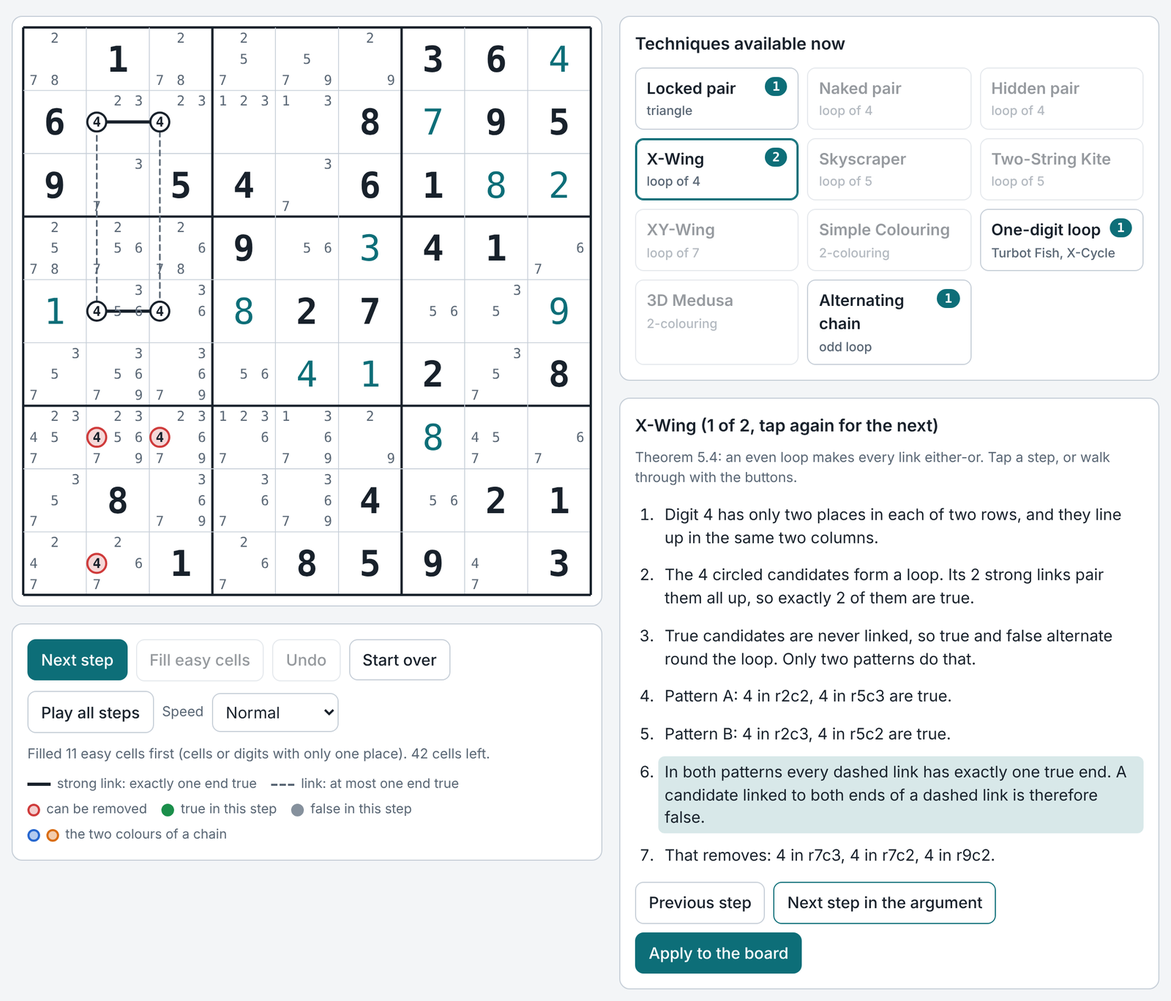
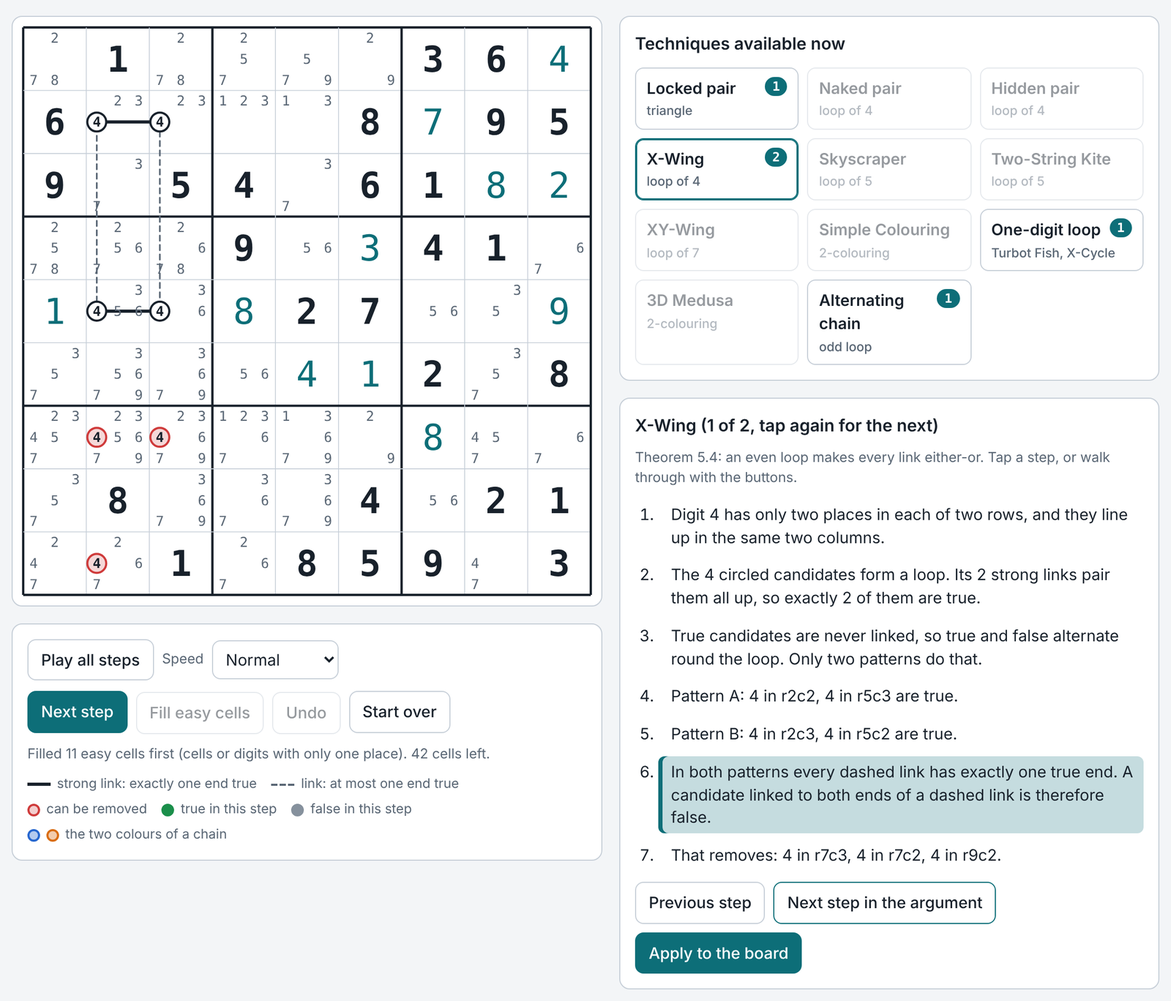
Loop Finder: no automatic scrolling, Resume after a pause, Play row on top
- The page never scrolls by itself now, during play or on Next step.
  The current step is marked with a stronger highlight instead.
- Play all steps and Speed sit above the manual buttons.
- The button reads Play all steps at first, Pause while playing and
  Resume after a pause. A new puzzle or Start over resets it.
- The explanation card keeps its height between moves during play, so
  the page below it does not jump.
- README: explain the two-colour idea in concrete terms.

Claude-Session: https://claude.ai/code/session_0161PMRBv2Fxor83Lofabj9S

Changed region(s): [[0.5625, 0.4912, 0.9688, 0.8596], [0.0, 0.614, 0.375, 0.7368]]

diff --git a/index.html b/index.html
@@ -40,7 +40,6 @@ p { margin: 0; }
   /* phone: the board stays in view while the steps scroll beneath it */
   .cols, .cols > .stack { display: contents; }
   .board { position: sticky; top: 0; z-index: 5; max-width: 460px; width: 100%; align-self: center; box-shadow: 0 6px 14px -10px var(--ink); }
-  #explain { scroll-margin-top: calc(min(100vw - 32px, 460px) + 12px); }
 }
 @media (min-width: 900px) { .cols > .stack:first-child { position: sticky; top: 16px; } }
 .row { display: flex; flex-wrap: wrap; gap: 8px; align-items: center; }
@@ -63,8 +62,8 @@ svg#grid { width: 100%; height: auto; display: block; touch-action: manipulation
 .tech .c { font-family: var(--font-mono); font-size: 12px; line-height: 18px; color: var(--panel); background: var(--accent); border-radius: 999px; padding: 0 7px; flex: none; }
 .tech[aria-pressed="true"] { border-color: var(--accent); box-shadow: inset 0 0 0 1px var(--accent); }
 ol#steps { margin: 0; padding-left: 22px; display: flex; flex-direction: column; gap: 6px; }
-ol#steps li { padding: 4px 6px; border-radius: 6px; cursor: pointer; }
-ol#steps li.on { background: color-mix(in srgb, var(--accent) 16%, transparent); }
+ol#steps li { padding: 4px 8px 4px 12px; border-radius: 6px; cursor: pointer; }
+ol#steps li.on { background: color-mix(in srgb, var(--accent) 24%, transparent); box-shadow: inset 4px 0 0 var(--accent); }
 .theorem { font-size: 13px; color: var(--muted); }
 .digits button { font-family: var(--font-mono); padding: 6px 0; width: 34px; text-align: center; }
 .digits button[aria-pressed="true"] { background: var(--accent); border-color: var(--accent); color: var(--panel); }
@@ -80,8 +79,6 @@ ol#steps li.on { background: color-mix(in srgb, var(--accent) 16%, transparent);
 .dot.b { border-color: var(--k1); background: color-mix(in srgb, var(--k1) 35%, transparent); }
 select#speed { flex: 0 0 auto; padding: 7px 8px; }
 #play[aria-pressed="true"] { border-color: var(--accent); box-shadow: inset 0 0 0 1px var(--accent); }
-ol#steps li { scroll-margin-top: 12px; }
-@media (max-width: 899px) { ol#steps li { scroll-margin-top: calc(min(100vw - 32px, 460px) + 12px); } }
 /* a candidate being removed: it pulses, is struck through, then shrinks away */
 #grid .going, #grid .landing { transform-box: fill-box; transform-origin: center; }
 #grid .going { animation: going var(--dur, 1100ms) ease-in forwards; }
@@ -125,12 +122,6 @@ ol#steps li { scroll-margin-top: 12px; }
       </section>
       <section class="card" aria-label="Moves">
         <div class="row">
-          <button id="next" type="button" class="primary">Next step</button>
-          <button id="easy" type="button">Fill easy cells</button>
-          <button id="undo" type="button">Undo</button>
-          <button id="reset" type="button">Start over</button>
-        </div>
-        <div class="row">
           <button id="play" type="button" aria-pressed="false">Play all steps</button>
           <label for="speed">Speed</label>
           <select id="speed" aria-label="Playback speed">
@@ -139,6 +130,12 @@ ol#steps li { scroll-margin-top: 12px; }
             <option value="800">Fast</option>
             <option value="1000" data-skip="1">Moves only</option>
           </select>
+        </div>
+        <div class="row">
+          <button id="next" type="button" class="primary">Next step</button>
+          <button id="easy" type="button">Fill easy cells</button>
+          <button id="undo" type="button">Undo</button>
+          <button id="reset" type="button">Start over</button>
         </div>
         <p class="msg" id="status" role="status"></p>
         <div class="legend" aria-label="Key">
@@ -586,6 +583,7 @@ ol#steps li { scroll-margin-top: 12px; }
   var st = null, original = '', solution = null, history = [], avail = {}, pick = {};
   var view = { kind: 'none' };   // 'result' {res, step}, 'probe' {id}, 'digit' {d}
   var playing = false, playTimer = null;        // automatic play
+  var paused = false;                           // play was stopped part-way, so the button offers to resume
   var removing = false, removeTimer = null;     // a move is being animated off the board
   var fresh = {};                               // cells filled by the last move, flashed once
   /* Tests set data-instant="1" on <html> to skip every wait. */
@@ -725,19 +723,22 @@ ol#steps li { scroll-margin-top: 12px; }
   function render() {
     draw(); drawTechs(); drawExplain();
     $('undo').disabled = !history.length; $('next').disabled = E.solved(st); $('easy').disabled = !E.findSingle(st);
-    var pb = $('play'); pb.disabled = E.solved(st) && !playing; pb.textContent = playing ? 'Pause' : 'Play all steps'; pb.setAttribute('aria-pressed', String(playing));
+    /* While playing, the explanation card never shrinks between moves, so the page below it does not jump. */
+    var ex = $('explain');
+    if (playing) { var h = ex.offsetHeight || 0; if (h > (ex._minH || 0)) { ex._minH = h; ex.style.minHeight = h + 'px'; } }
+    else if (ex._minH) { ex._minH = 0; ex.style.minHeight = ''; }
+    var pb = $('play'); pb.disabled = E.solved(st) && !playing; pb.textContent = playing ? 'Pause' : (paused && !E.solved(st) ? 'Resume' : 'Play all steps'); pb.setAttribute('aria-pressed', String(playing));
   }
   function say(text, bad) { var el = $('status'); el.textContent = text; el.className = 'msg' + (bad ? ' bad' : ''); }
 
   /* ---------- actions ---------- */
-  function reveal() { var el = $('explain'); if (el.scrollIntoView && window.matchMedia && window.matchMedia('(max-width: 899px)').matches) el.scrollIntoView({ block: 'start', behavior: 'smooth' }); }
-  function show(key, index, quiet) { var list = avail[key]; if (!list || !list.length) return; index = index % list.length; pick[key] = index; view = { kind: 'result', tech: key, index: index, res: list[index], step: null }; render(); if (!quiet) reveal(); }
+  function show(key, index, quiet) { var list = avail[key]; if (!list || !list.length) return; index = index % list.length; pick[key] = index; view = { kind: 'result', tech: key, index: index, res: list[index], step: null }; render(); }
   function snapshot() { history.push(E.clone(st)); if (history.length > 200) history.shift(); }
   function afterChange(text) { view = { kind: 'none' }; pick = {}; scan(); render(); say(text + (E.solved(st) ? ' The puzzle is solved.' : ' ' + left() + ' cells left.')); }
   function load(str, techKey) {
     var res = E.check(str), msg = $('loadmsg');
     if (!res.ok) { msg.textContent = 'Not loaded. ' + res.reason; msg.className = 'msg bad'; return false; }
-    st = res.state; original = E.toString(st); solution = res.solution; history = [];
+    st = res.state; original = E.toString(st); solution = res.solution; history = []; paused = false;
     msg.className = 'msg'; msg.textContent = 'Loaded. The puzzle has exactly one solution.';
     var n = E.fillSingles(st);
     afterChange(n ? 'Filled ' + n + ' easy cells first (cells or digits with only one place).' : 'No easy cells to fill.');
@@ -777,15 +778,11 @@ ol#steps li { scroll-margin-top: 12px; }
   }
 
   /* ---------- automatic play ---------- */
-  function stopPlay() { if (playTimer) { clearTimeout(playTimer); playTimer = null; } if (!playing) return; playing = false; render(); }
+  /* byUser: paused part-way (the button then says Resume). Otherwise play ran out of moves or finished. */
+  function stopPlay(byUser) { if (playTimer) { clearTimeout(playTimer); playTimer = null; } if (!playing) return; playing = false; paused = byUser === true; render(); }
   /* Every manual action goes through here first, so play never fights the user. */
-  function interrupt() { var was = playing || removing; cancelRemoval(); if (playing) stopPlay(); else if (was) render(); }
+  function interrupt() { var was = playing || removing; cancelRemoval(); if (playing) stopPlay(true); else if (was) render(); }
   function schedule(ms) { if (playing) playTimer = setTimeout(tick, ms); }
-  function focusStep() {
-    var li = document.querySelector('#steps li.on');
-    if (!li || !li.scrollIntoView || !window.matchMedia) return;
-    li.scrollIntoView({ block: window.matchMedia('(max-width: 899px)').matches ? 'start' : 'nearest', behavior: 'smooth' });
-  }
   function tick() {
     playTimer = null;
     if (!playing) return;
@@ -799,7 +796,7 @@ ol#steps li { scroll-margin-top: 12px; }
     }
     var last = view.res.steps.length - 1;
     if (!skipSteps() && (view.step === null || view.step < last)) {
-      view.step = view.step === null ? 0 : view.step + 1; render(); focusStep(); schedule(pace());
+      view.step = view.step === null ? 0 : view.step + 1; render(); schedule(pace());
       return;
     }
     if (!applyCurrent(function () { schedule(Math.round(pace() * 0.6)); })) stopPlay();
@@ -808,7 +805,7 @@ ol#steps li { scroll-margin-top: 12px; }
     if (playing || E.solved(st)) return;
     cancelRemoval();
     if (view.kind !== 'result') view = { kind: 'none' };
-    playing = true; render(); say('Playing. Tap Pause or the board to stop.');
+    playing = true; paused = false; render(); say('Playing. Tap Pause or the board to stop.');
     schedule(instant() ? 0 : 350);
   }
 
@@ -821,7 +818,7 @@ ol#steps li { scroll-margin-top: 12px; }
   $('easy').addEventListener('click', function () { interrupt(); fillEasy(); });
   $('undo').addEventListener('click', function () { interrupt(); if (!history.length) return; st = history.pop(); afterChange('Went back one move.'); });
   $('reset').addEventListener('click', function () { interrupt(); load(original, null); });
-  $('apply').addEventListener('click', function () { if (playing) stopPlay(); applyCurrent(); });
+  $('apply').addEventListener('click', function () { if (playing) stopPlay(true); applyCurrent(); });
   $('play').addEventListener('click', function () { if (playing) { interrupt(); say('Paused.'); } else startPlay(); });
   $('prev').addEventListener('click', function () { interrupt(); if (view.kind === 'result' && view.step) { view.step--; render(); } });
   $('fwd').addEventListener('click', function () { interrupt(); if (view.kind !== 'result') return; view.step = view.step === null ? 0 : Math.min(view.step + 1, view.res.steps.length - 1); render(); });

diff --git a/src/index.src.html b/src/index.src.html
@@ -40,7 +40,6 @@ p { margin: 0; }
   /* phone: the board stays in view while the steps scroll beneath it */
   .cols, .cols > .stack { display: contents; }
   .board { position: sticky; top: 0; z-index: 5; max-width: 460px; width: 100%; align-self: center; box-shadow: 0 6px 14px -10px var(--ink); }
-  #explain { scroll-margin-top: calc(min(100vw - 32px, 460px) + 12px); }
 }
 @media (min-width: 900px) { .cols > .stack:first-child { position: sticky; top: 16px; } }
 .row { display: flex; flex-wrap: wrap; gap: 8px; align-items: center; }
@@ -63,8 +62,8 @@ svg#grid { width: 100%; height: auto; display: block; touch-action: manipulation
 .tech .c { font-family: var(--font-mono); font-size: 12px; line-height: 18px; color: var(--panel); background: var(--accent); border-radius: 999px; padding: 0 7px; flex: none; }
 .tech[aria-pressed="true"] { border-color: var(--accent); box-shadow: inset 0 0 0 1px var(--accent); }
 ol#steps { margin: 0; padding-left: 22px; display: flex; flex-direction: column; gap: 6px; }
-ol#steps li { padding: 4px 6px; border-radius: 6px; cursor: pointer; }
-ol#steps li.on { background: color-mix(in srgb, var(--accent) 16%, transparent); }
+ol#steps li { padding: 4px 8px 4px 12px; border-radius: 6px; cursor: pointer; }
+ol#steps li.on { background: color-mix(in srgb, var(--accent) 24%, transparent); box-shadow: inset 4px 0 0 var(--accent); }
 .theorem { font-size: 13px; color: var(--muted); }
 .digits button { font-family: var(--font-mono); padding: 6px 0; width: 34px; text-align: center; }
 .digits button[aria-pressed="true"] { background: var(--accent); border-color: var(--accent); color: var(--panel); }
@@ -80,8 +79,6 @@ ol#steps li.on { background: color-mix(in srgb, var(--accent) 16%, transparent);
 .dot.b { border-color: var(--k1); background: color-mix(in srgb, var(--k1) 35%, transparent); }
 select#speed { flex: 0 0 auto; padding: 7px 8px; }
 #play[aria-pressed="true"] { border-color: var(--accent); box-shadow: inset 0 0 0 1px var(--accent); }
-ol#steps li { scroll-margin-top: 12px; }
-@media (max-width: 899px) { ol#steps li { scroll-margin-top: calc(min(100vw - 32px, 460px) + 12px); } }
 /* a candidate being removed: it pulses, is struck through, then shrinks away */
 #grid .going, #grid .landing { transform-box: fill-box; transform-origin: center; }
 #grid .going { animation: going var(--dur, 1100ms) ease-in forwards; }
@@ -125,12 +122,6 @@ ol#steps li { scroll-margin-top: 12px; }
       </section>
       <section class="card" aria-label="Moves">
         <div class="row">
-          <button id="next" type="button" class="primary">Next step</button>
-          <button id="easy" type="button">Fill easy cells</button>
-          <button id="undo" type="button">Undo</button>
-          <button id="reset" type="button">Start over</button>
-        </div>
-        <div class="row">
           <button id="play" type="button" aria-pressed="false">Play all steps</button>
           <label for="speed">Speed</label>
           <select id="speed" aria-label="Playback speed">
@@ -139,6 +130,12 @@ ol#steps li { scroll-margin-top: 12px; }
             <option value="800">Fast</option>
             <option value="1000" data-skip="1">Moves only</option>
           </select>
+        </div>
+        <div class="row">
+          <button id="next" type="button" class="primary">Next step</button>
+          <button id="easy" type="button">Fill easy cells</button>
+          <button id="undo" type="button">Undo</button>
+          <button id="reset" type="button">Start over</button>
         </div>
         <p class="msg" id="status" role="status"></p>
         <div class="legend" aria-label="Key">
@@ -202,6 +199,7 @@ ol#steps li { scroll-margin-top: 12px; }
   var st = null, original = '', solution = null, history = [], avail = {}, pick = {};
   var view = { kind: 'none' };   // 'result' {res, step}, 'probe' {id}, 'digit' {d}
   var playing = false, playTimer = null;        // automatic play
+  var paused = false;                           // play was stopped part-way, so the button offers to resume
   var removing = false, removeTimer = null;     // a move is being animated off the board
   var fresh = {};                               // cells filled by the last move, flashed once
   /* Tests set data-instant="1" on <html> to skip every wait. */
@@ -341,19 +339,22 @@ ol#steps li { scroll-margin-top: 12px; }
   function render() {
     draw(); drawTechs(); drawExplain();
     $('undo').disabled = !history.length; $('next').disabled = E.solved(st); $('easy').disabled = !E.findSingle(st);
-    var pb = $('play'); pb.disabled = E.solved(st) && !playing; pb.textContent = playing ? 'Pause' : 'Play all steps'; pb.setAttribute('aria-pressed', String(playing));
+    /* While playing, the explanation card never shrinks between moves, so the page below it does not jump. */
+    var ex = $('explain');
+    if (playing) { var h = ex.offsetHeight || 0; if (h > (ex._minH || 0)) { ex._minH = h; ex.style.minHeight = h + 'px'; } }
+    else if (ex._minH) { ex._minH = 0; ex.style.minHeight = ''; }
+    var pb = $('play'); pb.disabled = E.solved(st) && !playing; pb.textContent = playing ? 'Pause' : (paused && !E.solved(st) ? 'Resume' : 'Play all steps'); pb.setAttribute('aria-pressed', String(playing));
   }
   function say(text, bad) { var el = $('status'); el.textContent = text; el.className = 'msg' + (bad ? ' bad' : ''); }
 
   /* ---------- actions ---------- */
-  function reveal() { var el = $('explain'); if (el.scrollIntoView && window.matchMedia && window.matchMedia('(max-width: 899px)').matches) el.scrollIntoView({ block: 'start', behavior: 'smooth' }); }
-  function show(key, index, quiet) { var list = avail[key]; if (!list || !list.length) return; index = index % list.length; pick[key] = index; view = { kind: 'result', tech: key, index: index, res: list[index], step: null }; render(); if (!quiet) reveal(); }
+  function show(key, index, quiet) { var list = avail[key]; if (!list || !list.length) return; index = index % list.length; pick[key] = index; view = { kind: 'result', tech: key, index: index, res: list[index], step: null }; render(); }
   function snapshot() { history.push(E.clone(st)); if (history.length > 200) history.shift(); }
   function afterChange(text) { view = { kind: 'none' }; pick = {}; scan(); render(); say(text + (E.solved(st) ? ' The puzzle is solved.' : ' ' + left() + ' cells left.')); }
   function load(str, techKey) {
     var res = E.check(str), msg = $('loadmsg');
     if (!res.ok) { msg.textContent = 'Not loaded. ' + res.reason; msg.className = 'msg bad'; return false; }
-    st = res.state; original = E.toString(st); solution = res.solution; history = [];
+    st = res.state; original = E.toString(st); solution = res.solution; history = []; paused = false;
     msg.className = 'msg'; msg.textContent = 'Loaded. The puzzle has exactly one solution.';
     var n = E.fillSingles(st);
     afterChange(n ? 'Filled ' + n + ' easy cells first (cells or digits with only one place).' : 'No easy cells to fill.');
@@ -393,15 +394,11 @@ ol#steps li { scroll-margin-top: 12px; }
   }
 
   /* ---------- automatic play ---------- */
-  function stopPlay() { if (playTimer) { clearTimeout(playTimer); playTimer = null; } if (!playing) return; playing = false; render(); }
+  /* byUser: paused part-way (the button then says Resume). Otherwise play ran out of moves or finished. */
+  function stopPlay(byUser) { if (playTimer) { clearTimeout(playTimer); playTimer = null; } if (!playing) return; playing = false; paused = byUser === true; render(); }
   /* Every manual action goes through here first, so play never fights the user. */
-  function interrupt() { var was = playing || removing; cancelRemoval(); if (playing) stopPlay(); else if (was) render(); }
+  function interrupt() { var was = playing || removing; cancelRemoval(); if (playing) stopPlay(true); else if (was) render(); }
   function schedule(ms) { if (playing) playTimer = setTimeout(tick, ms); }
-  function focusStep() {
-    var li = document.querySelector('#steps li.on');
-    if (!li || !li.scrollIntoView || !window.matchMedia) return;
-    li.scrollIntoView({ block: window.matchMedia('(max-width: 899px)').matches ? 'start' : 'nearest', behavior: 'smooth' });
-  }
   function tick() {
     playTimer = null;
     if (!playing) return;
@@ -415,7 +412,7 @@ ol#steps li { scroll-margin-top: 12px; }
     }
     var last = view.res.steps.length - 1;
     if (!skipSteps() && (view.step === null || view.step < last)) {
-      view.step = view.step === null ? 0 : view.step + 1; render(); focusStep(); schedule(pace());
+      view.step = view.step === null ? 0 : view.step + 1; render(); schedule(pace());
       return;
     }
     if (!applyCurrent(function () { schedule(Math.round(pace() * 0.6)); })) stopPlay();
@@ -424,7 +421,7 @@ ol#steps li { scroll-margin-top: 12px; }
     if (playing || E.solved(st)) return;
     cancelRemoval();
     if (view.kind !== 'result') view = { kind: 'none' };
-    playing = true; render(); say('Playing. Tap Pause or the board to stop.');
+    playing = true; paused = false; render(); say('Playing. Tap Pause or the board to stop.');
     schedule(instant() ? 0 : 350);
   }
 
@@ -437,7 +434,7 @@ ol#steps li { scroll-margin-top: 12px; }
   $('easy').addEventListener('click', function () { interrupt(); fillEasy(); });
   $('undo').addEventListener('click', function () { interrupt(); if (!history.length) return; st = history.pop(); afterChange('Went back one move.'); });
   $('reset').addEventListener('click', function () { interrupt(); load(original, null); });
-  $('apply').addEventListener('click', function () { if (playing) stopPlay(); applyCurrent(); });
+  $('apply').addEventListener('click', function () { if (playing) stopPlay(true); applyCurrent(); });
   $('play').addEventListener('click', function () { if (playing) { interrupt(); say('Paused.'); } else startPlay(); });
   $('prev').addEventListener('click', function () { interrupt(); if (view.kind === 'result' && view.step) { view.step--; render(); } });
   $('fwd').addEventListener('click', function () { interrupt(); if (view.kind !== 'result') return; view.step = view.step === null ? 0 : Math.min(view.step + 1, view.res.steps.length - 1); render(); });

diff --git a/test/smoke.js b/test/smoke.js
@@ -8,6 +8,9 @@ const click = el => el.dispatchEvent(new dom.window.MouseEvent('click', { bubble
 const E = dom.window.SudokuEngine;
 // The page waits between steps and animates removals. data-instant="1" turns every wait off, so the checks below can stay synchronous.
 document.documentElement.setAttribute('data-instant', '1');
+// The page must never scroll by itself: count any attempt.
+let scrolls = 0; dom.window.Element.prototype.scrollIntoView = () => { scrolls++; }; dom.window.scrollTo = () => { scrolls++; };
+if (/scrollIntoView|scrollTo\(|scrollBy\(/.test(html)) throw new Error('the page contains scrolling code');
 const log = [];
 // 1. initial state: tour puzzle loaded, first technique shown
 log.push('title: ' + $('tname').textContent + ' | steps: ' + $('steps').children.length + ' | status: ' + $('status').textContent);
@@ -72,24 +75,35 @@ const loadSample = i => { sel.value = String(i); sel.dispatchEvent(new dom.windo
   // 6a. play solves the tour puzzle on its own and then stops
   loadSample(0);
   if (play.disabled) throw new Error('play is disabled on a fresh puzzle');
+  if (play.textContent !== 'Play all steps') throw new Error('fresh puzzle: button says ' + play.textContent);
+  if (!(play.compareDocumentPosition($('next')) & dom.window.Node.DOCUMENT_POSITION_FOLLOWING) || !(play.compareDocumentPosition($('undo')) & dom.window.Node.DOCUMENT_POSITION_FOLLOWING) || !($('speed').compareDocumentPosition($('next')) & dom.window.Node.DOCUMENT_POSITION_FOLLOWING)) throw new Error('play and speed are not above the manual buttons');
   click(play);
   if (play.textContent !== 'Pause' || play.getAttribute('aria-pressed') !== 'true') throw new Error('play did not start');
   await until(() => play.textContent !== 'Pause', 20000, 'play to finish the tour puzzle');
   if ($('tname').textContent !== 'Solved' || $('grid').querySelector('rect[data-id]')) throw new Error('play stopped before the puzzle was solved: ' + $('status').textContent);
   if (!play.disabled) throw new Error('play should be disabled once the puzzle is solved');
+  if (play.textContent !== 'Play all steps') throw new Error('after finishing, button says ' + play.textContent);
   log.push('play: tour puzzle solved automatically | ' + $('status').textContent);
   // 6b. play can be paused from the board, and nothing changes after the pause
   loadSample(4);
   click(play); await sleep(0);
   click($('grid'));
-  if (play.textContent !== 'Play all steps') throw new Error('tapping the board did not pause');
+  if (play.textContent !== 'Resume') throw new Error('after pausing, button says ' + play.textContent + ' instead of Resume');
   const frozen = $('grid').innerHTML; await sleep(60);
   if ($('grid').innerHTML !== frozen) throw new Error('the board kept changing after pause');
   if ($('tname').textContent === 'Solved') throw new Error('puzzle was solved despite the pause');
-  log.push('pause: ' + $('status').textContent);
+  log.push('pause: ' + $('status').textContent + ' | button: ' + play.textContent);
+  click(play);
+  if (play.textContent !== 'Pause') throw new Error('Resume did not start play again');
+  click(play);
+  if (play.textContent !== 'Resume') throw new Error('Pause button did not pause');
+  loadSample(4);
+  if (play.textContent !== 'Play all steps') throw new Error('a new puzzle should reset the button, but it says ' + play.textContent);
+  click(play); click($('grid')); click($('reset'));
+  if (play.textContent !== 'Play all steps') throw new Error('Start over should reset the button, but it says ' + play.textContent);
   // 6c. any manual button also stops play
   click(play); click($('undo'));
-  if (play.textContent !== 'Play all steps') throw new Error('a manual button did not stop play');
+  if (play.textContent !== 'Resume') throw new Error('a manual button did not stop play');
   // 6d. with waits switched on, Apply first shows the candidates leaving, then changes the board
   document.documentElement.removeAttribute('data-instant');
   $('speed').value = '800';
@@ -130,6 +144,8 @@ const loadSample = i => { sel.value = String(i); sel.dispatchEvent(new dom.windo
   click($('grid'));
   if ($('grid').querySelector('g.going')) throw new Error('pausing did not cancel the removal in progress');
   log.push('moves only: loop shown, then removal, no steps');
+  if (scrolls) throw new Error('the page scrolled by itself ' + scrolls + ' times');
+  log.push('scrolling: none');
   console.log(log.join('\n')); console.log('errors:', errors.length ? errors : 'none');
   if (errors.length) process.exit(1);
   dom.window.close();

diff --git a/README.md b/README.md
@@ -1,6 +1,13 @@
 # Why Advanced Sudoku Strategies Work
 
-Advanced sudoku strategies (X-Wing, XY-Wing, Skyscraper, Simple Colouring and others) are usually memorised as separate tricks. This project shows they all come down to one question from the theory of **bipartite graphs**: can this loop be coloured with two colours? When it can, true and false alternate round it. When it cannot, something has to give, and that tells you which candidate to remove.
+Advanced sudoku strategies (X-Wing, XY-Wing, Skyscraper, Simple Colouring and others) are usually memorised as separate tricks. This project shows they are one idea from the theory of **bipartite graphs**.
+
+The idea: take a loop of candidates (digits still possible in a cell) in which each one conflicts with the next, so the two cannot both be true. Now try to mark them true, false, true, false all the way round.
+
+- **On a loop with an even number of candidates, the marking fits.** When the puzzle forces it, every neighbouring pair on the loop holds exactly one true candidate. So any other candidate that conflicts with both members of a pair must be false.
+- **On a loop with an odd number, the marking cannot fit.** Somewhere on the loop two neighbours are both false. Working out where that has to happen shows which candidate is false.
+
+Marking things with two labels so that neighbours always differ is called *two-colouring*, and a graph where that is possible is called *bipartite*.
 
 **Try it:** [Sudoku Loop Finder](https://hyejunshin.github.io/sudoku-graph-theory/) · **Read it:** [the write-up](https://hyejunshin.github.io/sudoku-graph-theory/writeup/)
 
@@ -14,7 +21,7 @@ When a cell is still empty, solvers write in it, in small digits, every digit th
 
 In each empty cell exactly one candidate is the real answer. Call that one **true** and the rest **false**. Solving a sudoku means working out which candidates are false and removing them until one is left in every cell. Every strategy below is a way of proving that some candidate is false.
 
-## The idea
+## The idea, step by step
 
 **1. Candidates are dots, and every line between them is a rule.** Draw each candidate as a dot. The rules of sudoku allow one digit per cell, and each digit once per row, column and box. So some pairs of candidates can never both be true: two digits in the same cell, or the same digit twice in a row, column or box. Join every such pair with a line, called a *link*. A link says "not both".
 
